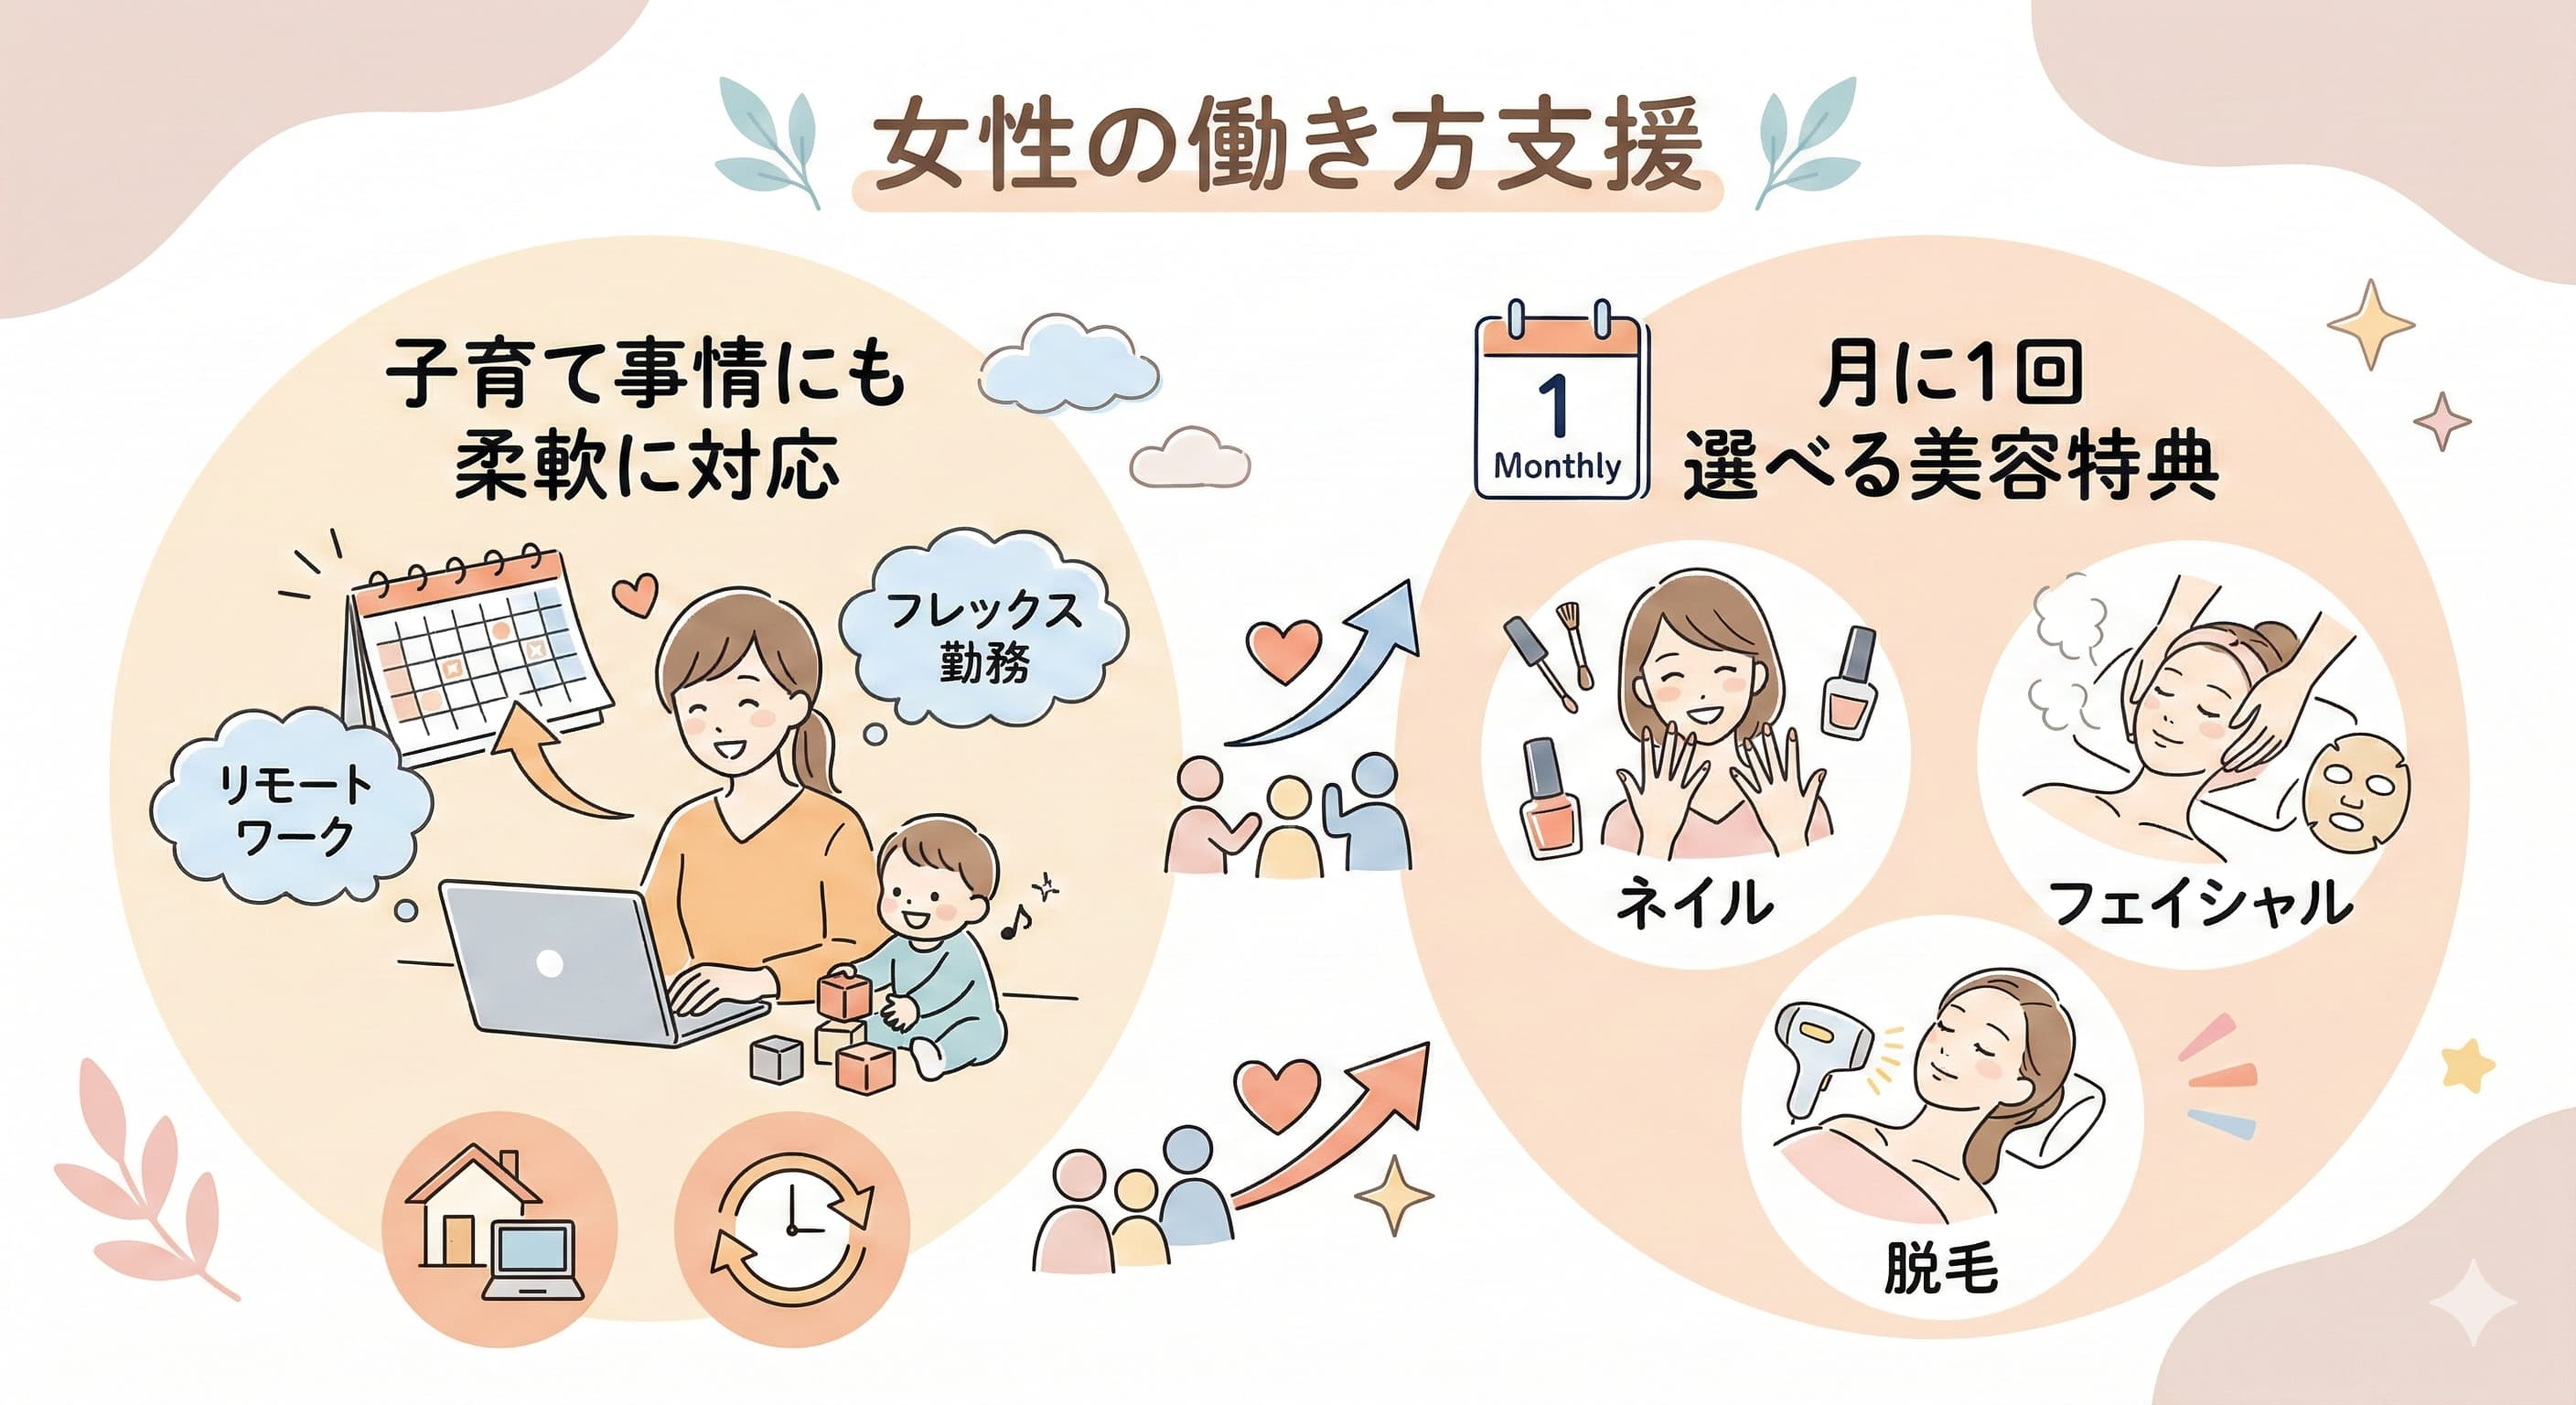
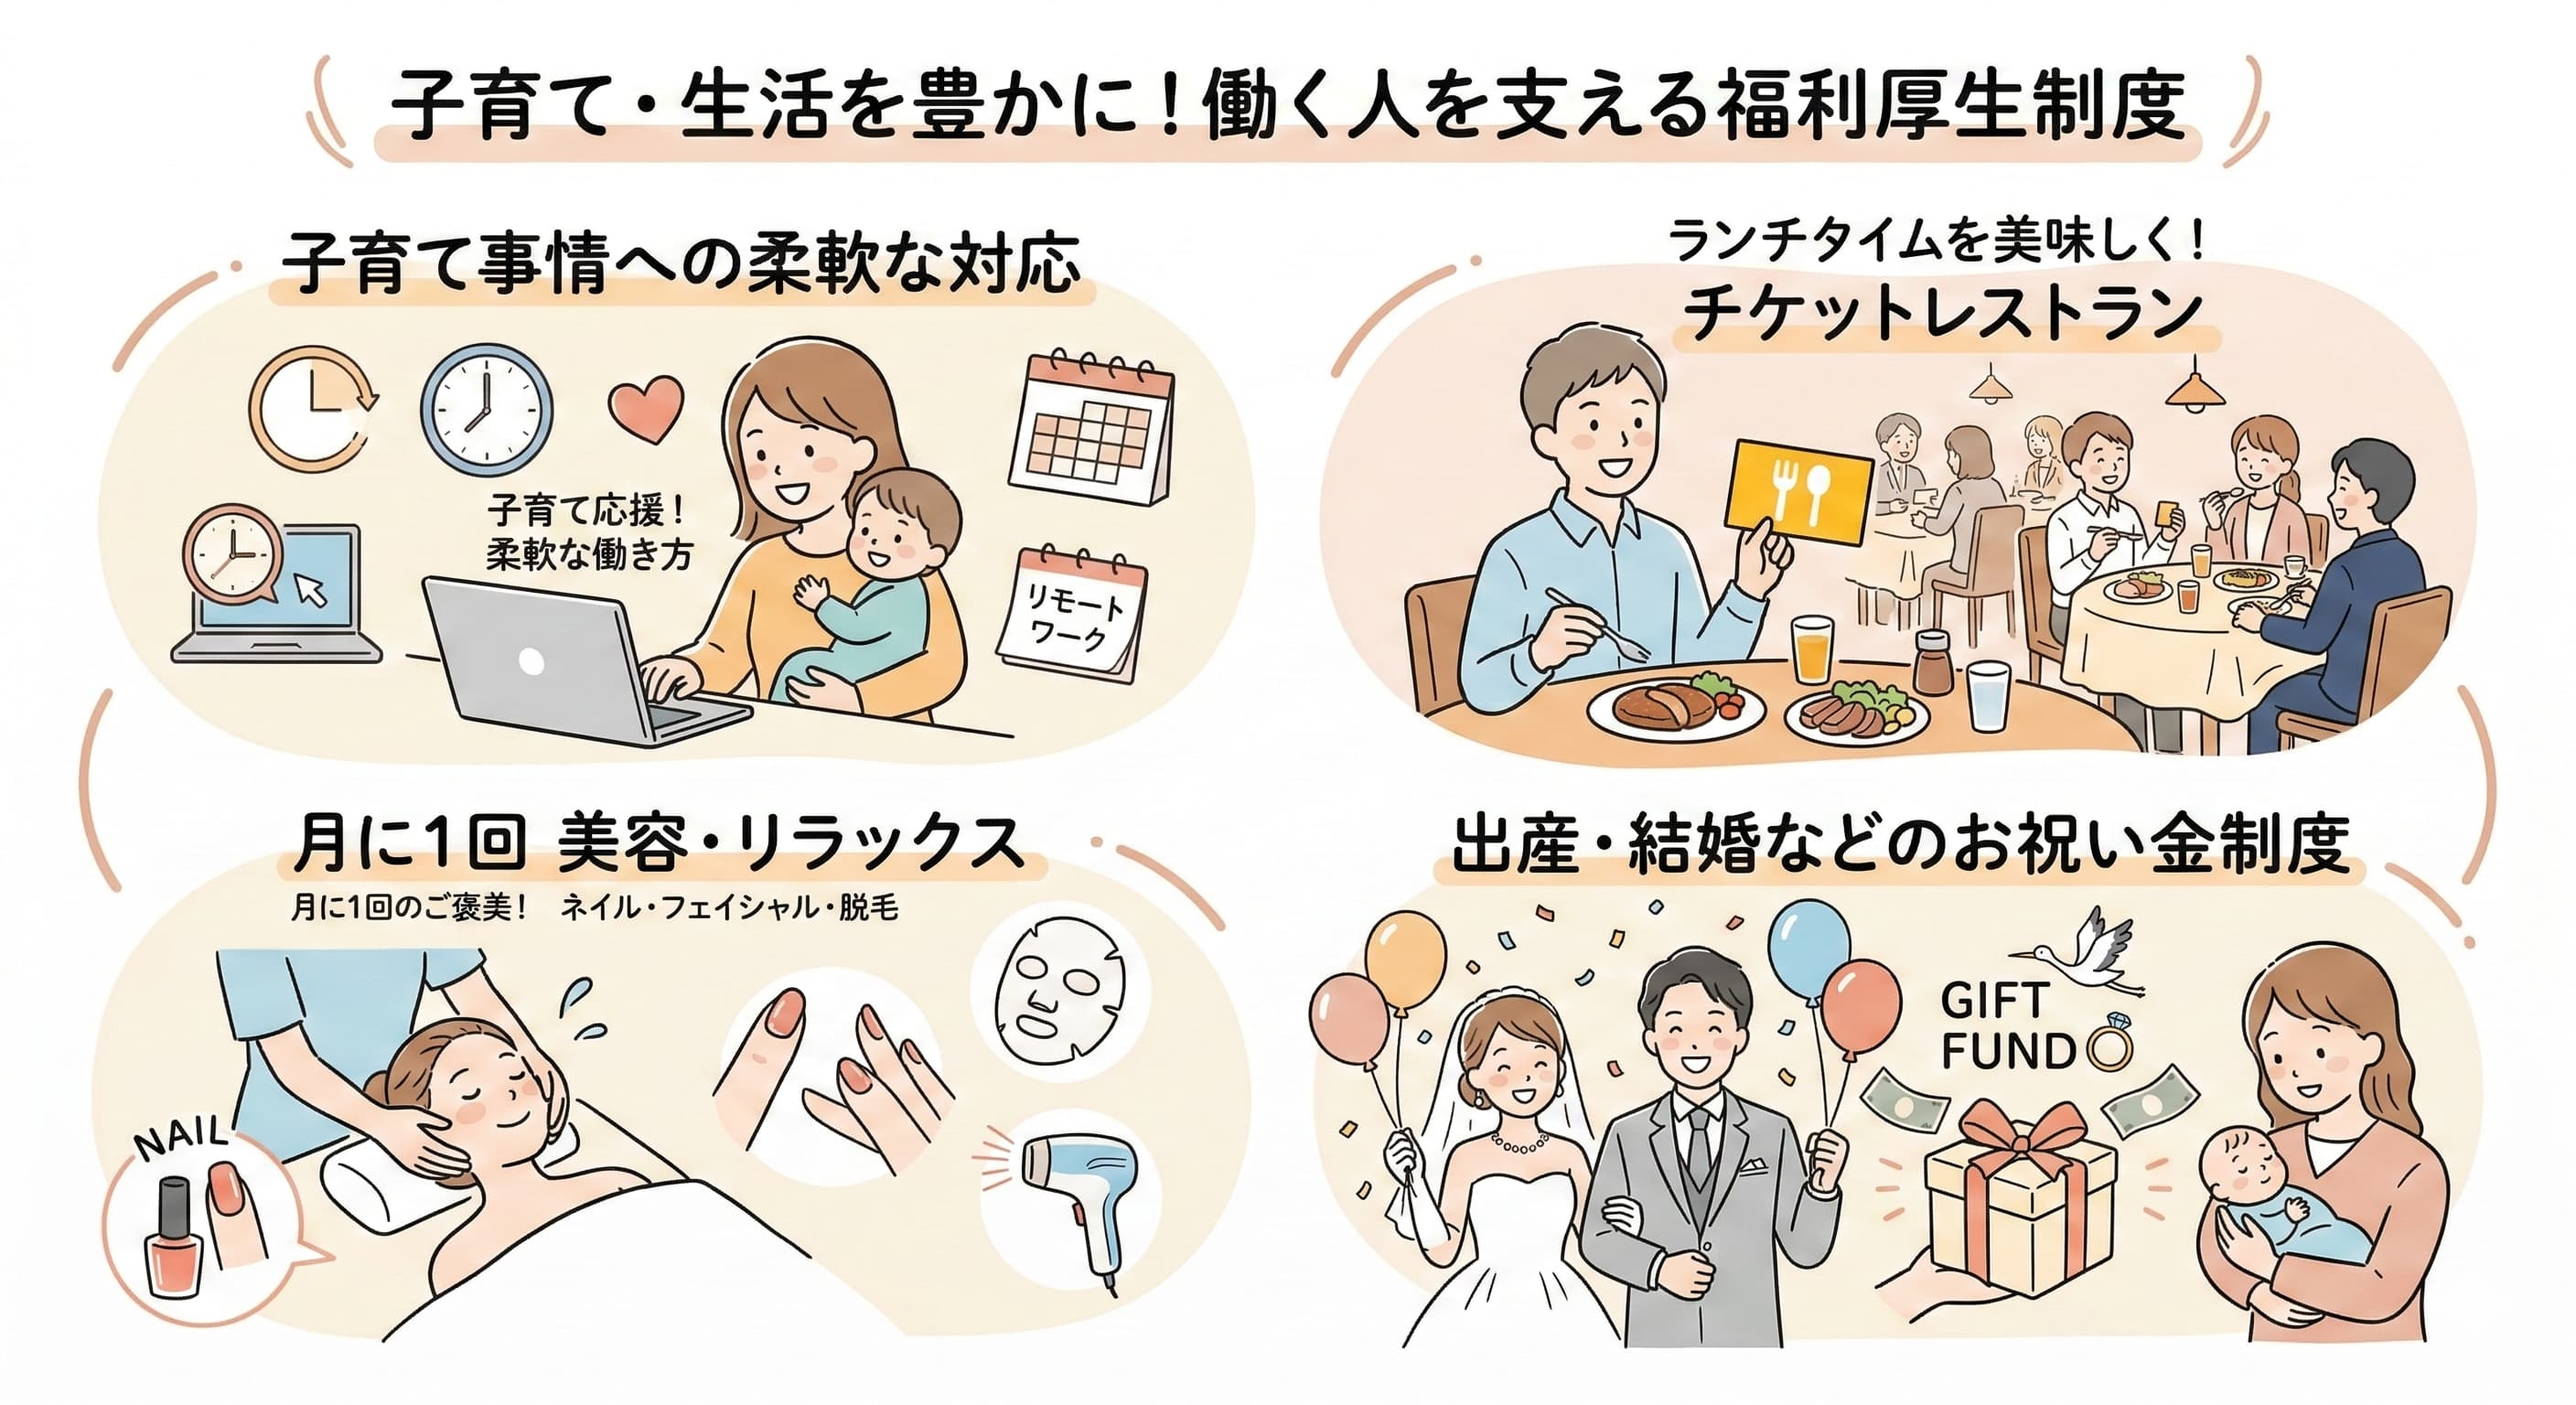
採用情報の修正

diff --git a/theme/scss/pages/_recruit.scss b/theme/scss/pages/_recruit.scss
@@ -409,9 +409,8 @@
   span {
     display: block;
     width: 100%;
-    padding: 5px 15px;
+    padding: 5px 0;
     margin: auto;
-    font-size: var(--fz20);
     font-weight: 800;
     color: #fff;
     text-align: center;

diff --git a/theme/page-recruit.php b/theme/page-recruit.php
@@ -408,9 +408,11 @@
       <div class="recruit_working--inner">
         <ul>
           <li>子育て事情にも柔軟に対応</li>
+          <li>チケットレストラン</li>
         </ul>
         <ul>
           <li>月に1回「ネイル」「フェイシャル」「ネイル」「脱毛」が受けられる</li>
+          <li>出産・結婚などのお祝い金制度あり</li>
         </ul>
       </div>
     </div>
@@ -453,6 +455,10 @@
         <li>
           <img src="<?php echo get_template_directory_uri(); ?>/img/recruit/employee_05.jpg" alt="" width="316" height="316" loading="lazy" decoding="async">
           <span>個人賠償責任保険</span>
+        </li>
+        <li>
+          <img src="<?php echo get_template_directory_uri(); ?>/img/recruit/employee_06.jpg" alt="" width="316" height="316" loading="lazy" decoding="async">
+          <span>全厚済モール</span>
         </li>
       </ul>
     </div>
@@ -627,6 +633,54 @@
                   <dt>■入社時の想定年収</dt>
                   <dd>
                     年収400万円～600万円
+                  </dd>
+                </dl>
+              </td>
+            </tr>
+            <tr>
+              <th>福利厚生</th>
+              <td>
+                <dl class="u-mb15">
+                  <dt>■各種保険・手当・基本制度</dt>
+                  <dd>
+                    <ul>
+                      <li>・社会保険完備（雇用・労災・健康・厚生年金）</li>
+                      <li>・資格取得支援制度</li>
+                      <li>・社用車・社用スマホ・社用PC貸与</li>
+                      <li>・オフィスグリコ・ウォーターサーバー完備</li>
+                    </ul>
+                  </dd>
+                </dl>
+                <dl class="u-mb15">
+                  <dt>■ワークライフバランス・働きやすさ</dt>
+                  <dd>
+                    <ul>
+                      <li>・自由度の高い社風（日々のスケジュールは裁量労働、強制的な社内イベントなし）</li>
+                      <li>・リモート対応（朝礼・終礼はスマホからオンライン参加可能）</li>
+                      <li>・安心の業務サポート（未経験者への同行体制、訪問先MAPアプリ、LINEでの即レス相談）</li>
+                    </ul>
+                  </dd>
+                </dl>
+                <dl class="u-mb15">
+                  <dt>■プライベート・生活応援（全厚済サービス等）</dt>
+                  <dd>
+                    <ul>
+                      <li>・各種割引サービス（国内宿最大80%オフ、レジャー、グルメ、家電製品などの社員割引）</li>
+                      <li>・選べる美容サポート（月に1回「ネイル」「フェイシャル」「脱毛」のいずれかを利用可能）</li>
+                      <li>・社用車・社用スマホ・社用PC貸与</li>
+                      <li>・食事補助（チケットレストラン導入）</li>
+                    </ul>
+                  </dd>
+                </dl>
+                <dl class="u-mb15">
+                  <dt>■女性限定の特別サポート</dt>
+                  <dd>
+                    <ul>
+                      <li>・月1回の選べるご褒美「美容サポート」（エステ、ネイル、フェイシャル、脱毛など）</li>
+                      <li>・女性専用の健康相談ダイヤル</li>
+                      <li>・社用車・社用スマホ・社用PC貸与</li>
+                      <li>・ライフステージの変化を祝う「お祝い金制度」</li>
+                    </ul>
                   </dd>
                 </dl>
               </td>
@@ -828,6 +882,54 @@
                 <dl class="u-mb15">
                   <dt>■入社時の想定年収</dt>
                   <dd>年収400万円～600万円</dd>
+                </dl>
+              </td>
+            </tr>
+            <tr>
+              <th>福利厚生</th>
+              <td>
+                <dl class="u-mb15">
+                  <dt>■各種保険・手当・基本制度</dt>
+                  <dd>
+                    <ul>
+                      <li>・社会保険完備（雇用・労災・健康・厚生年金）</li>
+                      <li>・資格取得支援制度</li>
+                      <li>・社用車・社用スマホ・社用PC貸与</li>
+                      <li>・オフィスグリコ・ウォーターサーバー完備</li>
+                    </ul>
+                  </dd>
+                </dl>
+                <dl class="u-mb15">
+                  <dt>■ワークライフバランス・働きやすさ</dt>
+                  <dd>
+                    <ul>
+                      <li>・自由度の高い社風（日々のスケジュールは裁量労働、強制的な社内イベントなし）</li>
+                      <li>・リモート対応（朝礼・終礼はスマホからオンライン参加可能）</li>
+                      <li>・安心の業務サポート（未経験者への同行体制、訪問先MAPアプリ、LINEでの即レス相談）</li>
+                    </ul>
+                  </dd>
+                </dl>
+                <dl class="u-mb15">
+                  <dt>■プライベート・生活応援（全厚済サービス等）</dt>
+                  <dd>
+                    <ul>
+                      <li>・各種割引サービス（国内宿最大80%オフ、レジャー、グルメ、家電製品などの社員割引）</li>
+                      <li>・選べる美容サポート（月に1回「ネイル」「フェイシャル」「脱毛」のいずれかを利用可能）</li>
+                      <li>・社用車・社用スマホ・社用PC貸与</li>
+                      <li>・食事補助（チケットレストラン導入）</li>
+                    </ul>
+                  </dd>
+                </dl>
+                <dl class="u-mb15">
+                  <dt>■女性限定の特別サポート</dt>
+                  <dd>
+                    <ul>
+                      <li>・月1回の選べるご褒美「美容サポート」（エステ、ネイル、フェイシャル、脱毛など）</li>
+                      <li>・女性専用の健康相談ダイヤル</li>
+                      <li>・社用車・社用スマホ・社用PC貸与</li>
+                      <li>・ライフステージの変化を祝う「お祝い金制度」</li>
+                    </ul>
+                  </dd>
                 </dl>
               </td>
             </tr>
